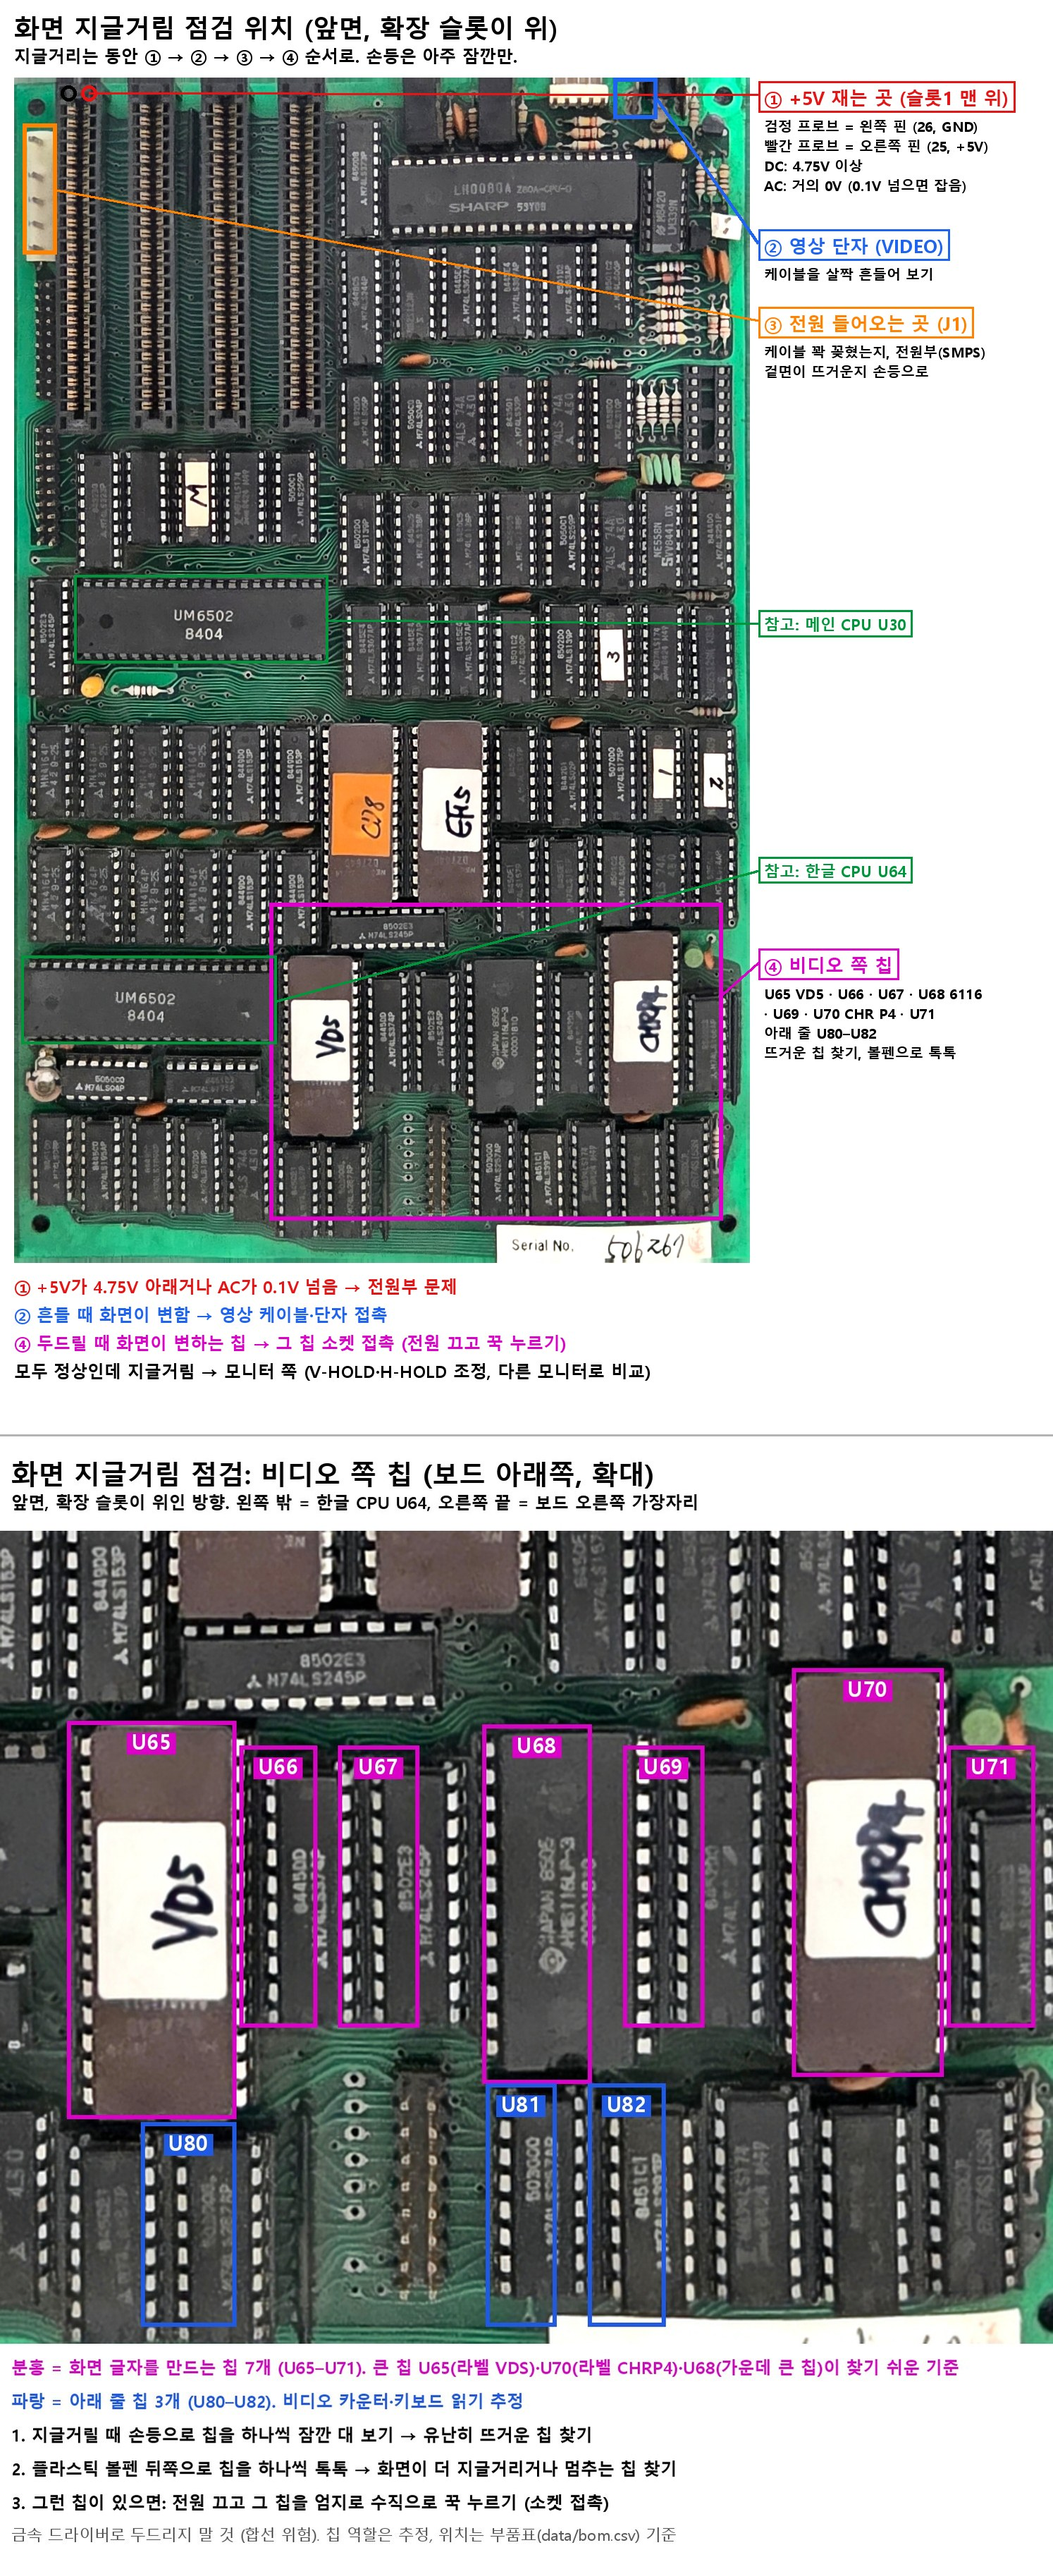
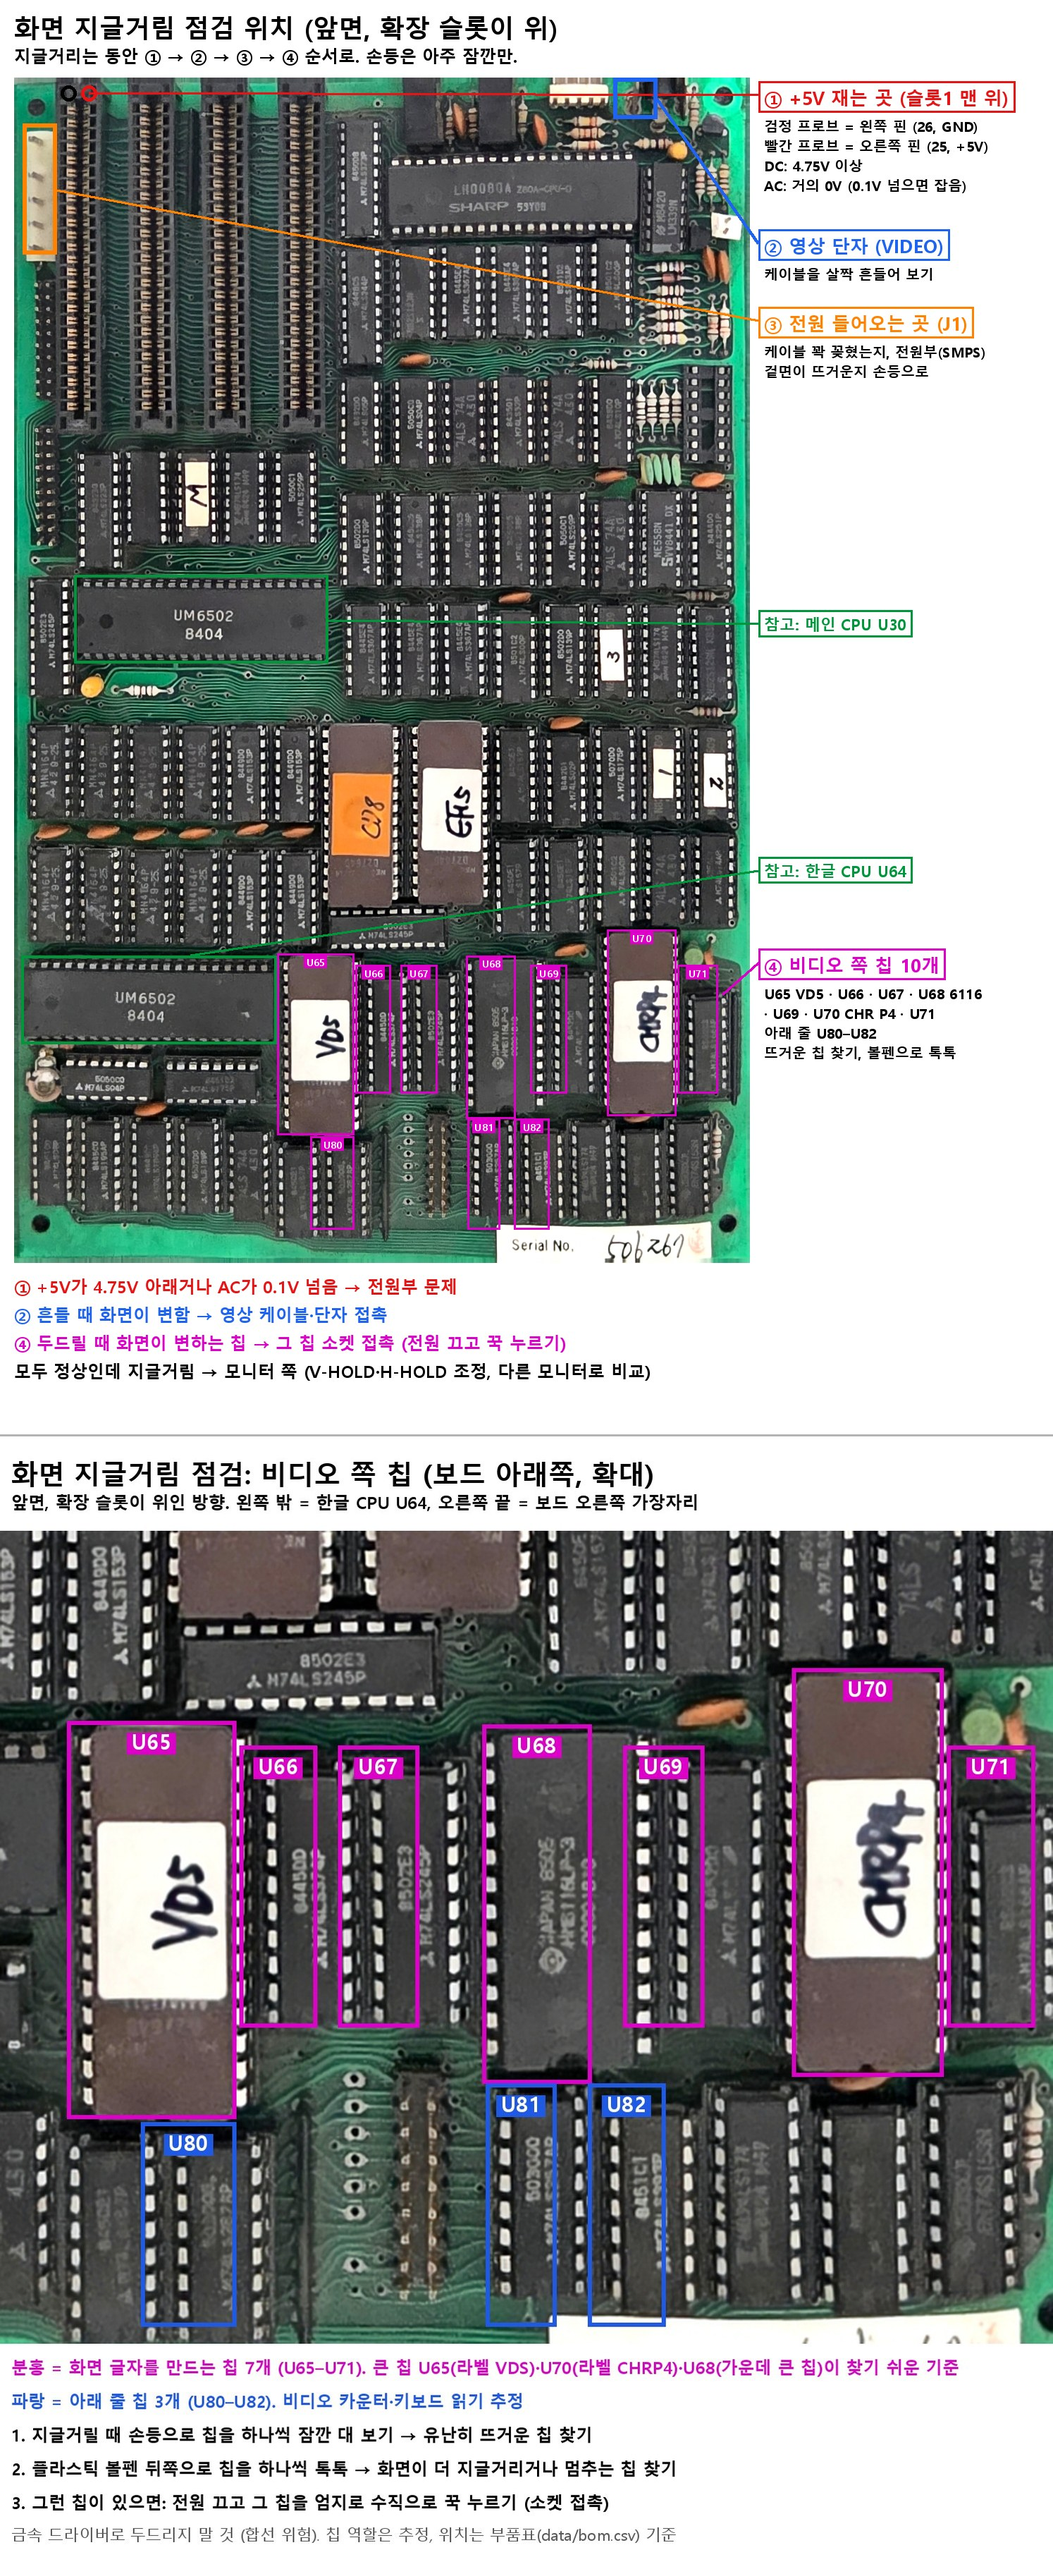
jitter_check_points: 비디오 칩 큰 사각형 대신 칩 10개(U65–U71, U80–U82)만 각각 테두리·번호 표시

Changed region(s): [[0.2463, 0.3433, 0.7082, 0.4993]]

diff --git a/tools/annotate_jitter_check.py b/tools/annotate_jitter_check.py
@@ -46,15 +46,28 @@ label((LM + im.width + 20, TOP + 330), "③ 전원 들어오는 곳 (J1)", ORG, 
 d.text((LM + im.width + 20, TOP + 375), "케이블 꽉 꽂혔는지, 전원부(SMPS)\n겉면이 뜨거운지 손등으로", font=F(20), fill=BLK, spacing=6)
 
 # ④ 비디오 칩 영역 U65–U71, U80–U82
-rect(362, 1170, 1005, 1620, MAG)  # 비디오 칩 10개(U65–U71, U80–U82)를 사각형 하나로
-label((LM + im.width + 20, TOP + 1240), "④ 비디오 쪽 칩", MAG, 26, P(1005, 1300))
+# 칩 10개만 각각 테두리 (큰 사각형 하나로 묶으면 다른 칩까지 포함돼 헷갈림)
+# 좌표 = annotate_video_chips.py 확대 사진의 칩 픽셀 좌표를 bom 1/2 좌표로 환산 (x = 330 + px/2.2, y = 1120 + (py-120)/2.2)
+VPIX = {"U65": (95, 390, 335, 955), "U66": (340, 425, 450, 825), "U67": (480, 425, 595, 825),
+        "U68": (685, 395, 840, 905), "U69": (885, 425, 1000, 825), "U70": (1125, 315, 1340, 895),
+        "U71": (1345, 425, 1470, 825), "U80": (200, 960, 335, 1250), "U81": (690, 905, 790, 1250),
+        "U82": (835, 905, 945, 1250)}
+for ref, (a0, b0, a1, b1) in VPIX.items():
+    x0, y0 = 330 + a0 / 2.2, 1120 + (b0 - 120) / 2.2
+    x1, y1 = 330 + a1 / 2.2, 1120 + (b1 - 120) / 2.2
+    rect(x0, y0, x1, y1, MAG, 3)
+    tx, ty = P((x0 + x1) / 2, y0)
+    l, t, r, b = d.textbbox((0, 0), ref, font=F(14))
+    d.rectangle((tx - (r - l) / 2 - 3, ty + 2, tx + (r - l) / 2 + 3, ty + 20), fill=MAG)
+    d.text((tx - (r - l) / 2, ty + 1), ref, font=F(14), fill="white")
+label((LM + im.width + 20, TOP + 1240), "④ 비디오 쪽 칩 10개", MAG, 26, P(1005, 1300))
 d.text((LM + im.width + 20, TOP + 1285), "U65 VD5 · U66 · U67 · U68 6116\n· U69 · U70 CHR P4 · U71\n아래 줄 U80–U82\n뜨거운 칩 찾기, 볼펜으로 톡톡", font=F(20), fill=BLK, spacing=6)
 
 # 참고: 두 CPU
 rect(85, 705, 445, 830, GRN, 4)
 label((LM + im.width + 20, TOP + 760), "참고: 메인 CPU U30", GRN, 22, P(445, 770))
 rect(10, 1245, 372, 1370, GRN, 4)
-label((LM + im.width + 20, TOP + 1110), "참고: 한글 CPU U64", GRN, 22, P(372, 1310))
+label((LM + im.width + 20, TOP + 1110), "참고: 한글 CPU U64", GRN, 22, P(250, 1245))
 
 d.text((20, 14), "화면 지글거림 점검 위치 (앞면, 확장 슬롯이 위)", font=F(36), fill=BLK)
 d.text((20, 62), "지글거리는 동안 ① → ② → ③ → ④ 순서로. 손등은 아주 잠깐만.", font=F(24), fill=BLK)
